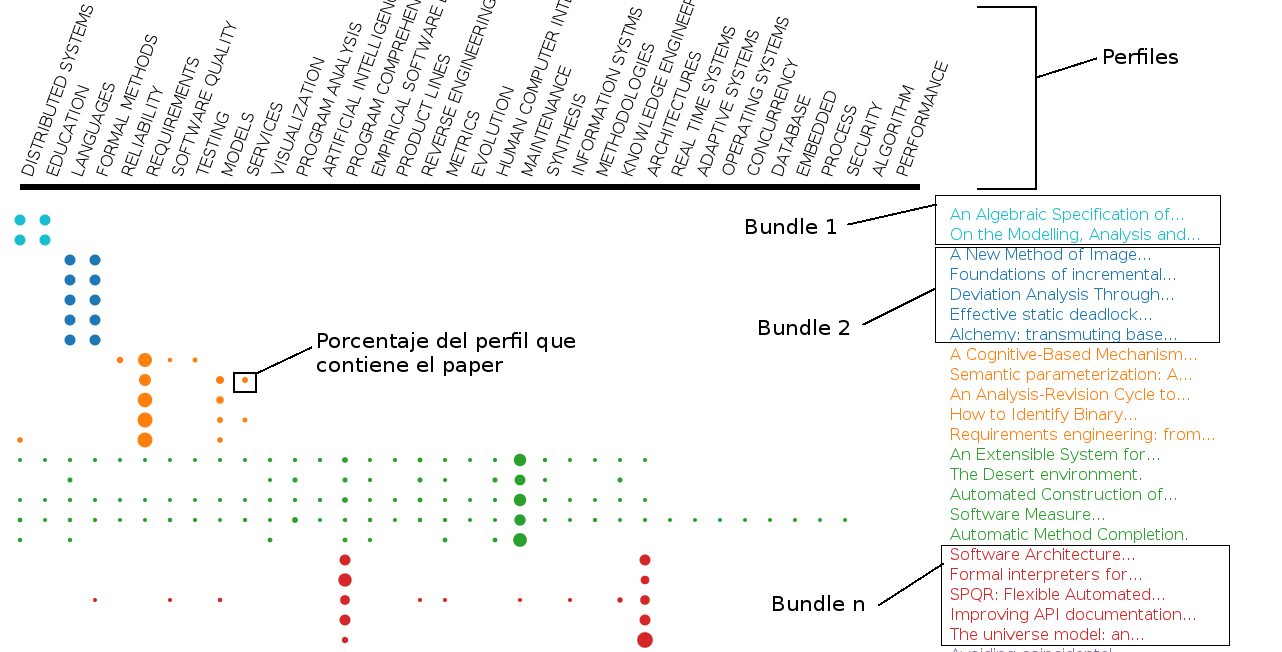
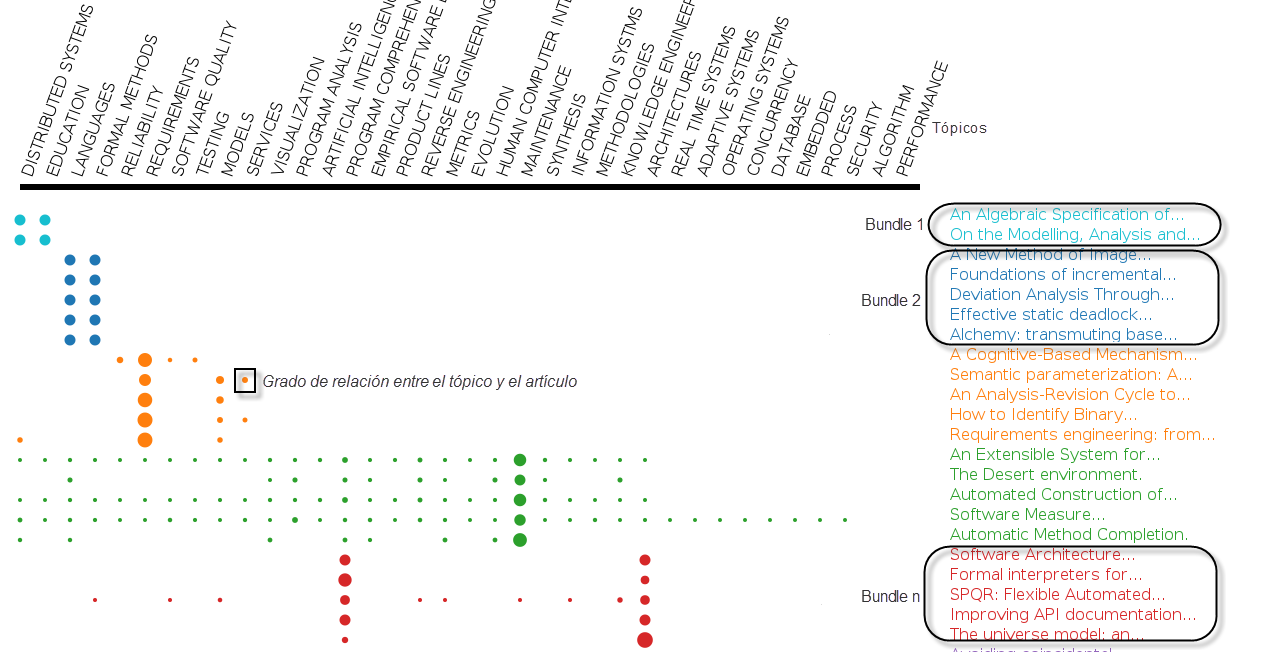
informe - resultados

diff --git a/informe/resultados.tex b/informe/resultados.tex
@@ -1,4 +1,21 @@
 \section{Base de datos de artículos}
+Para poder comprender el comportamiento de los resultados de las búsquedas se diseñaron dos tipos de gráficos. La intención es visualizar en los resultados que tan cohesivos son los bundles y la distancia que existe entre estos. De esta forma se podrá analizar la calidad del resultado obtenido más allá del valor de la función objetivo.\\
+En los gráficos de \ref{res:img-explain-bars} se visualiza a través del tamaño de un círculo la proporción de cada artículo con cada tópico y con el color del artículo al bundle al que pertenece. Por lo tanto si para un bundle se tiene que la distribución entre los tópicos y el tamaño de los círculos es similar para cada artículo se puede deducir que ese bundle es cohesivo. Por otro lado si los círculos de un bundle no coinciden con los círculos de otro bundle el resultado es diverso.
+\begin{figure}[H]
+  \centering
+    \includegraphics[width=1\textwidth]{img/explain-bars.png}
+  \caption{}
+  \label{res:img-explain-bars}
+\end{figure}
+
+En los gráficos de tipo burbuja \ref{res:img-explain-bubbles} se observa la relación entre los tópicos y los bundles. Cada burbuja representa un tópico y contiene los círculos de la proporción en la relación entre el tópico que representa y un artículo del resultado, además el color del círculo representa al bundle al que pertence el artículo. Entonces si las burbujas contienen círculos de más de un color se puede decir que ese resultado no es muy diverso, mientras que el color de los círculos de las burbujas sea más homogéneo el resultado es más diverso. En cuanto a la cohesión de los bundles, es más cohesivo cuando el tamaño de cada circulo dentro de cada burbuja sea similar (para el mismo color) y la distribución de los círculos entre cada burbuja es equitativa.
+
+\begin{figure}[H]
+  \centering
+    \includegraphics[width=0.5\textwidth]{img/explain-bubbles.png}
+  \caption{}
+  \label{res:img-explain-bubbles}
+\end{figure}
 \subsection{Búsquedas de Artículos}\label{res:busPaper}
 Generar una solución, en el que cada bundle contenga artículos similares que se hayan presentado en distintas conferencias.\\
 \begin{itemize}
@@ -8,10 +25,10 @@ Generar una solución, en el que cada bundle contenga artículos similares que s
 
 La base de datos de \cite{dataDrive} contiene $7777$ items de artículos, para las búsquedas se requiere que ellos cuenten con la información del autor, de su perfil como paper (\textbf{topic profile}) y su lugar de publicación (\textbf{venue}). Los artículos que no cuentan con alguno de estos datos no se tuvieron en cuenta para la experimentación y fueron eliminados. A partir de las primeras ejecuciones y resultados obtenidos se observaron dos comportamientos no deseados, \textit{soluciones similares para distintos valores de $\gamma$} y \textit{soluciones con bundles unitarios}, a continuación se explica con más detalle estos comportamientos.\\
 Al finalizar la depuración de artículos que se consideró afectaban los resultados obtenidos, se obtuvieron $3954$ para realizar todas las pruebas mencionadas.
-\subsubsection{Soluciones similares para distintos gammas}
+\paragraph{Soluciones similares para distintos gammas}
 Como primer análisis de la experimentación realizada se destaca que el valor de la función objetivo se encuentra cercano a una cota máxima (ver \ref{conc:valoresOptimos}) y que para todos los valores de $\gamma$ utilizados las soluciones eran muy similares entre sí. Un posterior análisis más detallado realizado sobre los bundles de artículos, se detectó que muchos de ellos contenían artículos de un solo tópico, por lo tanto el valor cohesivo (\textbf{intra}) de los bundles generados es el máximo, así también la distancia con los otros bundles.\\
 Al contar con muchos artículos con un solo tópico las soluciones obtenidas no permiten realizar una correcta comparación de las heurísticas, por lo tanto a fines prácticos de comparar las implementaciones mencionas y obtener bundles más interesantes, se decidió eliminar los artículos que contengan un solo un tópico.
-\subsubsection{Soluciones con bundles unitarios}
+\paragraph{Soluciones con bundles unitarios}
 Las soluciones obtenidas mediante las búsquedas en las que se prioriza que los bundles sean más cohesivos (\textbf{inter}) contenían una alta cantidad de bundles con uno o dos elementos únicamente, tal conducta no es la deseada ya que queda una parte del presupuesto sin ser usado.\\
 Este comportamiento ocurre particularmente con el método jerárquico o HAC en la etapa de producción del algoritmo \texttt{PAC}, ya que algunos cluster generados no superan el presupuesto pero no pueden ser unidos con otro cluster porque invalida la complementaridad que se quiere lograr. Suponiendo que para la búsqueda \textit{Artículos de diferentes conferencias} existen los artículos $A_1$, $A_2$, $A_3$, $A_4$ y $A_5$ y tienen una distribución del tópico $t$ mayor a $0.7$, es lógico que se genere un bundle con estos 5 artículos porque es cohesivo. Ahora si las conferencias son $V_1, V_2 y V_3$ y los artículos se presentan de la siguiente manera:
 \begin{itemize}
@@ -82,22 +99,7 @@ En los gráficos \ref{res:img-papers-agr-gamma01} y \ref{res:img-papers-agr-gamm
 
 De lo anterior se observa para todas las soluciones obtenidas, se puede mejorar la función objetivo aplicando la búsqueda tabú, aún sea en un valor pequeño. Otra observación interesante es que en todos los valores de $\gamma$ utilizados el algoritmo BOBO fue el más beneficiado en el uso de la búsqueda Tabú, sobre todo en las más altos. De forma inversa a lo que sucedía con los resultados iniciales que a medida que $\gamma$ crecía la función objetivo disminuía, utilizando la heurística revirtió la tendencia.\\
 Para el HAC y la Búsqueda Golosa, el uso de Búsqueda Tabú tuvo un comportamiento similar entre las diferentes soluciones.\\
-Para visualizar como se diferencian las distintas soluciones que se obtuvieron con distintos los $\gamma$ y los algoritmos utilizados, se generaron dos tipos de gráficos para la comprensión de los resultados obtenidos.\\
-En los gráficos de \ref{res:img-explain-bars} se puede ver como se distribuyen los perfiles en la solución obtenida.
-\begin{figure}[H]
-  \centering
-    \includegraphics[width=0.5\textwidth]{img/explain-bars.png}
-  \caption{}
-  \label{res:img-explain-bars}
-\end{figure}
 
-En los gráficos de tipo burbuja \ref{res:img-explain-bubbles} se observa la relación entre los tópicos y los bundles. Cada burbuja representa un tópico de un artículo de la solución. El tamaño de la burbuja es el porcentaje del tópico y el color referncia al bundle al que pertenece el artículo. Las burbujas del mismo tópico se agrupan para facilitar la interpretación del gráfico.
-\begin{figure}[H]
-  \centering
-    \includegraphics[width=0.5\textwidth]{img/explain-bubbles.png}
-  \caption{}
-  \label{res:img-explain-bubbles}
-\end{figure}
 \paragraph{Jerarquico (o SingleHAC)}
 En \ref{res:img-papers-agr-gamma01} y \ref{res:img-papers-agr-gamma09} se visualiza que utilizando una búsqueda Tabú al final de la ejecución  de HAC no mejora considerablemente la solución. Por lo que se decidió para este caso comparar el algoritmo sin la búsqueda tabú.
 \begin{figure}[H]
